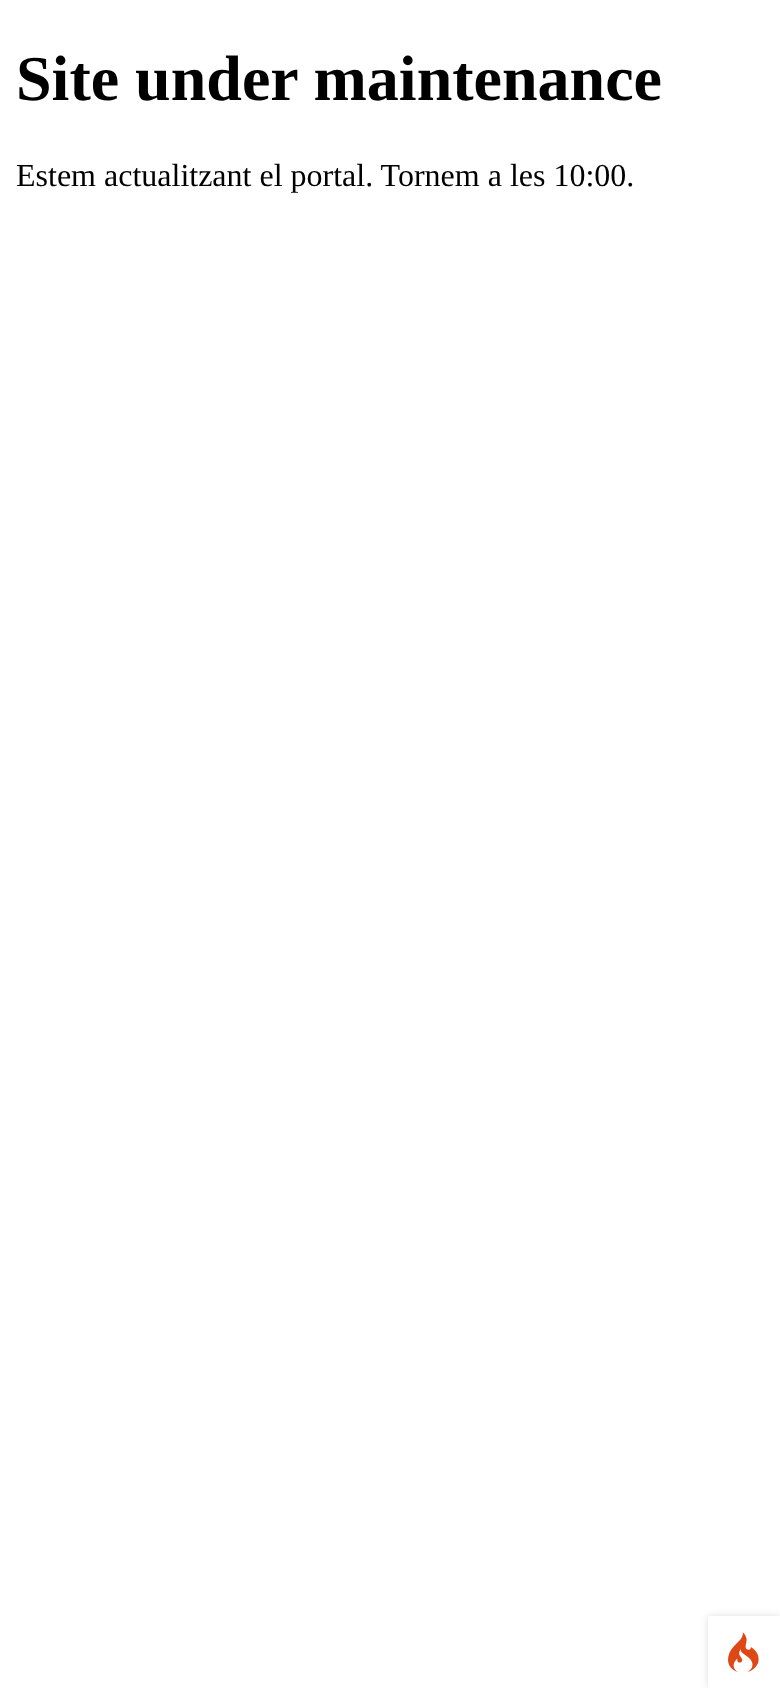
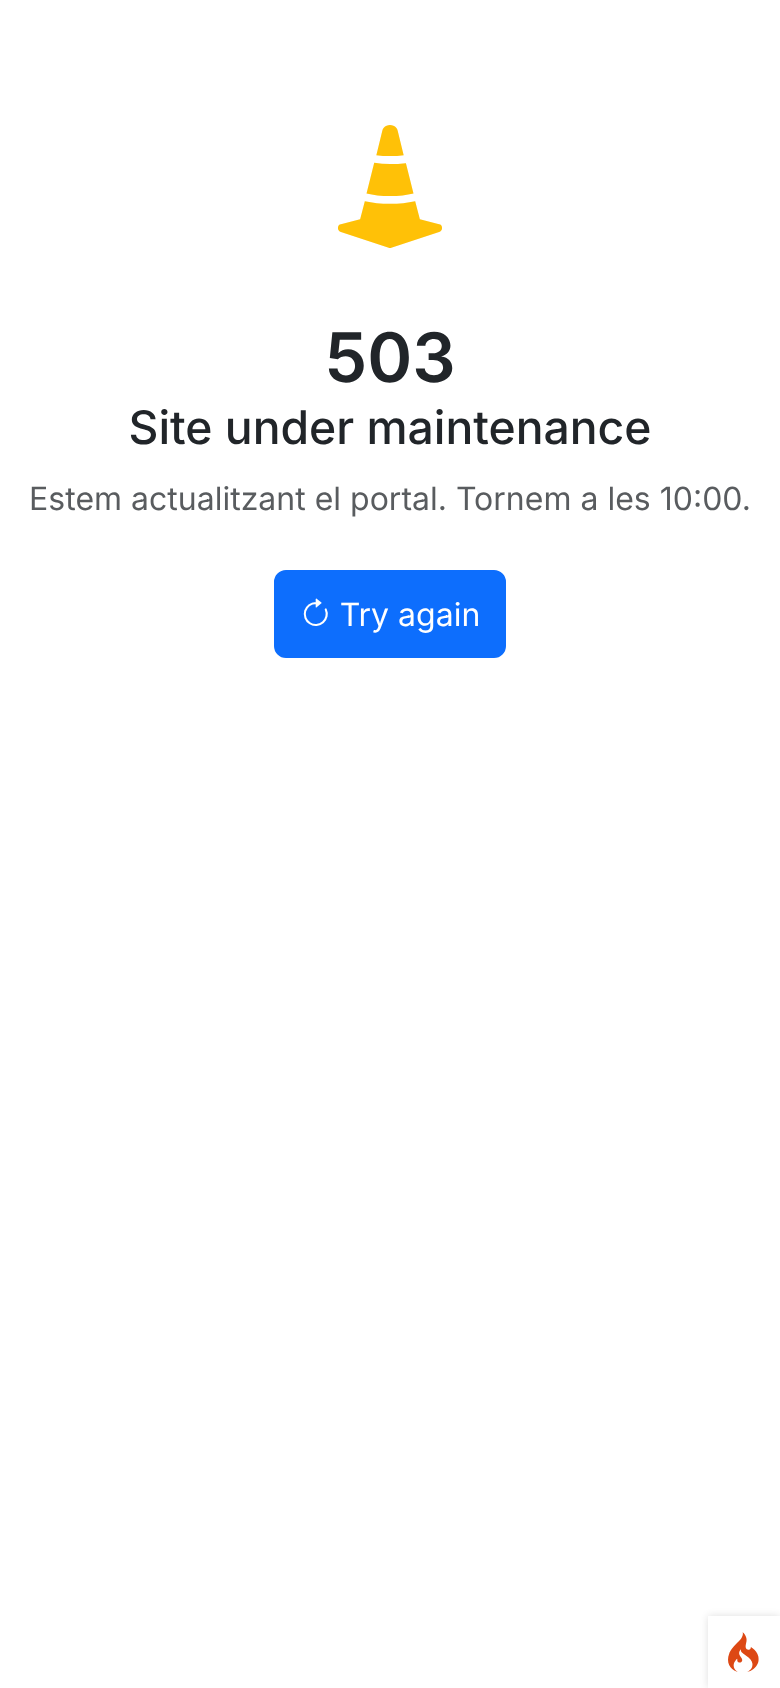
Maintenance page drawn by the theme without the database (D-28-07)
Claude-Session: https://claude.ai/code/session_01BM6RUBSx3Gb4zxDB7wx6QB

diff --git a/themes/default/Assets/css/theme.css b/themes/default/Assets/css/theme.css
@@ -296,6 +296,7 @@
 .demo-progress .progress-bar { width: 0; transition: width 0.3s ease; }
 .empty-state-icon { font-size: 3rem; }
 .error-page-icon { font-size: 4rem; }
+.maintenance-message { max-width: 36rem; }
 .status-dot { font-size: 0.5em; vertical-align: middle; }
 .crud-container .table-responsive-wrapper { overflow-x: auto; }
 .form-layout .form-actions { position: sticky; bottom: 0; background-color: var(--bs-body-bg); z-index: 2; }

diff --git a/modules/Core/Maintenance/MaintenancePage.php b/modules/Core/Maintenance/MaintenancePage.php
@@ -1,0 +1,60 @@
+<?php
+
+declare(strict_types=1);
+
+namespace Modules\Core\Maintenance;
+
+use CodeIgniter\Settings\Settings;
+use Config\Services;
+use Throwable;
+
+/**
+ * The 503 page of maintenance mode, drawn by the theme like the 403/404/500 pages: the standard
+ * view `errors/maintenance` (Core default `modules/Core/Views/errors/maintenance.php`; a theme
+ * overrides it in `themes/<slug>/Views/errors/maintenance.php`, D-28-07).
+ *
+ * The database may be being replaced (a restore), so nothing may read it: before rendering, the
+ * request's settings service is swapped for one without handlers, so every `setting()` answers
+ * the file configuration (`Config\Theme`, `Config\Core`…): the public theme of `Config\Theme`,
+ * its default options and colours, the default site name. If the theme cannot render, a plain
+ * page without styles is returned instead (a broken theme never hides the maintenance notice).
+ */
+final class MaintenancePage
+{
+    /**
+     * @param string $message the administrator's plain-text message (empty = the default text)
+     */
+    public static function render(string $message = ''): string
+    {
+        try {
+            $config           = clone config('Settings');
+            $config->handlers = [];
+            Services::injectMock('settings', new Settings($config));
+            Services::resetSingle('theme');
+
+            $theme = service('theme');
+            $theme->setArea('public');
+
+            return $theme->render('errors/maintenance', [
+                'message' => $message,
+                'title'   => lang('Core.maintenance.title'),
+                'retry'   => current_url(),
+            ], ['saveData' => false]);
+        } catch (Throwable) {
+            return self::plain($message);
+        }
+    }
+
+    /**
+     * Minimal page without theme, styles or scripts.
+     */
+    public static function plain(string $message = ''): string
+    {
+        $title = esc(lang('Core.maintenance.title'));
+        $text  = esc($message !== '' ? $message : lang('Core.maintenance.message'));
+
+        return '<!doctype html><html lang="' . esc(service('request')->getLocale()) . '"><head><meta charset="utf-8">'
+            . '<meta name="viewport" content="width=device-width, initial-scale=1"><meta name="robots" content="noindex">'
+            . '<title>' . $title . '</title></head><body><main><h1>' . $title . '</h1><p>' . $text . '</p></main></body></html>';
+    }
+}

diff --git a/modules/Core/Tests/MaintenanceModeTest.php b/modules/Core/Tests/MaintenanceModeTest.php
@@ -8,10 +8,11 @@ use CodeIgniter\Test\CIUnitTestCase;
 use CodeIgniter\Test\FeatureTestTrait;
 use CodeIgniter\Test\StreamFilterTrait;
 use Modules\Core\Maintenance\MaintenanceMode;
+use Modules\Core\Maintenance\MaintenancePage;
 
 /**
  * Maintenance mode (session 27, used by restores): every request answers 503 with Retry-After
- * and a page that reads no database, except the paths the mode allows; JSON for API clients;
+ * and the theme's maintenance page (D-28-07), except the paths the mode allows; JSON for API clients;
  * `schedule:run` does nothing meanwhile.
  *
  * @internal
@@ -42,7 +43,11 @@ final class MaintenanceModeTest extends CIUnitTestCase
             $this->assertSame('60', $response->response()->getHeaderLine('Retry-After'), $path);
         }
 
-        $this->assertStringContainsString(lang('Core.maintenance.title'), (string) $this->call('GET', '/')->response()->getBody());
+        $page = (string) $this->call('GET', '/')->response()->getBody();
+        $this->assertStringContainsString(lang('Core.maintenance.title'), $page);
+        $this->assertStringContainsString('class="error-page maintenance-page', $page, 'Drawn by the theme, like the other error pages.');
+        $this->assertMatchesRegularExpression('#<link rel="stylesheet" href="[^"]*themes/default/#', $page);
+        $this->assertStringContainsString(lang('Core.maintenance.retry'), $page);
         $this->assertSame(lang('Core.maintenance.title'), json_decode((string) $this->call('GET', 'api/v1/news')->response()->getBody(), true)['error'] ?? null);
 
         $this->assertTrue($mode->allows('progress/backup/0123'));
@@ -52,6 +57,15 @@ final class MaintenanceModeTest extends CIUnitTestCase
         $mode->disable();
         $this->assertFalse($mode->isOn());
         $this->assertNull($mode->state());
+    }
+
+    public function testThePlainFallbackNeedsNothing(): void
+    {
+        $page = MaintenancePage::plain('Back <soon>');
+
+        $this->assertStringContainsString('Back &lt;soon&gt;', $page);
+        $this->assertStringNotContainsString('<link', $page);
+        $this->assertStringContainsString(lang('Core.maintenance.message'), MaintenancePage::plain());
     }
 
     public function testTheSchedulerSkipsWhileItIsOn(): void

diff --git a/modules/Core/Views/errors/maintenance.php b/modules/Core/Views/errors/maintenance.php
@@ -1,24 +1,22 @@
 <?php
 /**
- * Maintenance mode page (503, Modules\Core\Filters\Maintenance). Plain HTML on purpose: while the
- * mode is on the database may be replaced (a restore), so nothing here reads settings, the theme
- * or the database. `$message` is the administrator's plain-text message (MaintenanceMode).
+ * Maintenance page (503, Modules\Core\Filters\Maintenance through MaintenancePage) in the active
+ * theme's blank layout, like the other error pages; a theme overrides it in
+ * `themes/<slug>/Views/errors/maintenance.php`. The database may be being replaced: settings
+ * answer the file configuration only (MaintenancePage), and this view must not read anything
+ * else (no models, no session data).
  *
- * @var string $message
+ * @var string      $message the administrator's plain-text message (empty = the default text)
+ * @var string|null $retry   the URL to try again
  */
 ?>
-<!doctype html>
-<html lang="<?= esc(service('request')->getLocale(), 'attr') ?>">
-<head>
-    <meta charset="utf-8">
-    <meta name="viewport" content="width=device-width, initial-scale=1">
-    <meta name="robots" content="noindex">
-    <title><?= esc(lang('Core.maintenance.title')) ?></title>
-</head>
-<body>
-<main>
-    <h1><?= esc(lang('Core.maintenance.title')) ?></h1>
-    <p><?= esc(($message ?? '') !== '' ? $message : lang('Core.maintenance.message')) ?></p>
+<?= $this->extend(theme_layout('blank')) ?>
+<?= $this->section('content') ?>
+<main class="error-page maintenance-page container py-5 text-center">
+    <i class="bi bi-cone-striped error-page-icon text-warning" aria-hidden="true"></i>
+    <p class="display-4 fw-semibold mt-3 mb-0">503</p>
+    <h1 class="h3"><?= esc(lang('Core.maintenance.title')) ?></h1>
+    <p class="text-body-secondary mx-auto maintenance-message"><?= esc(($message ?? '') !== '' ? $message : lang('Core.maintenance.message')) ?></p>
+    <a href="<?= esc(ui_safe_url($retry ?? base_url('/'))) ?>" class="btn btn-primary mt-2"><i class="bi bi-arrow-clockwise me-1" aria-hidden="true"></i><?= esc(lang('Core.maintenance.retry')) ?></a>
 </main>
-</body>
-</html>
+<?= $this->endSection() ?>

diff --git a/modules/Core/Filters/Maintenance.php b/modules/Core/Filters/Maintenance.php
@@ -10,12 +10,14 @@ use CodeIgniter\HTTP\RequestInterface;
 use CodeIgniter\HTTP\ResponseInterface;
 use CodeIgniter\Shield\Entities\User;
 use Modules\Core\Maintenance\MaintenanceMode;
+use Modules\Core\Maintenance\MaintenancePage;
 use Modules\Core\Permissions\Authorization;
 use Throwable;
 
 /**
  * Global filter (`maintenance`, first of the global filters): while maintenance mode is on,
- * every request answers 503 with `Retry-After` and a plain page that needs no database, except
+ * every request answers 503 with `Retry-After` and the theme's maintenance page drawn without the
+ * database (MaintenancePage; plain HTML if the theme fails), except
  * the paths the mode allows (MaintenanceMode::allows()). JSON requests get a JSON body.
  *
  * When an administrator turned it on by hand (the state's `bypass` flag, D-28-02), a signed-in
@@ -64,7 +66,7 @@ final class Maintenance implements FilterInterface
             return $response->setJSON(['error' => lang('Core.maintenance.title'), 'message' => $state['message'], 'retryAfter' => self::RETRY_AFTER]);
         }
 
-        return $response->setBody(view('Modules\Core\Views\errors\maintenance', ['message' => $state['message']], ['debug' => false]));
+        return $response->setBody(MaintenancePage::render($state['message']));
     }
 
     private static function superadminSignedIn(RequestInterface $request): bool

diff --git a/modules/Settings/Tests/MaintenanceScreenTest.php b/modules/Settings/Tests/MaintenanceScreenTest.php
@@ -90,6 +90,19 @@ final class MaintenanceScreenTest extends SettingsTestCase
         $this->send('GET', '/')->assertStatus(200);
     }
 
+    public function testThePageIsThemedWithoutReadingStoredSettings(): void
+    {
+        service('settings')->set('Core.siteName', 'Name stored in the database');
+        (new MaintenanceMode())->enableByHand('Back soon');
+
+        $page = (string) $this->send('GET', '/')->getBody();
+
+        $this->assertStringContainsString('class="error-page maintenance-page', $page);
+        $this->assertStringContainsString('Back soon', $page);
+        $this->assertStringNotContainsString('Name stored in the database', $page, 'Only the file configuration is read (the database may be being replaced).');
+        $this->assertStringContainsString('<title>' . esc(lang('Core.maintenance.title')), $page);
+    }
+
     public function testASuperadminWithoutASessionCookieIsNotLetThrough(): void
     {
         $this->createUser('root@example.com', 'superadmin');

diff --git a/modules/Core/Language/es/Core.php b/modules/Core/Language/es/Core.php
@@ -230,6 +230,7 @@ return [
     'maintenance' => [
         'title'   => 'Sitio en mantenimiento',
         'message' => 'El sitio se está actualizando o restaurando. Vuelva a intentarlo dentro de unos minutos.',
+        'retry'   => 'Volver a intentarlo',
         'skipped' => 'Omitido: el modo de mantenimiento está activado.',
         'banner'  => 'Modo de mantenimiento activado: los visitantes ven la página de mantenimiento.',
         'manage'  => 'Gestionarlo',

diff --git a/modules/Core/Language/ca/Core.php b/modules/Core/Language/ca/Core.php
@@ -230,6 +230,7 @@ return [
     'maintenance' => [
         'title'   => 'Lloc en manteniment',
         'message' => 'El lloc s\'està actualitzant o restaurant. Torneu-ho a provar d\'aquí a uns minuts.',
+        'retry'   => 'Torna-ho a provar',
         'skipped' => 'Omès: el mode de manteniment està activat.',
         'banner'  => 'Mode de manteniment activat: els visitants veuen la pàgina de manteniment.',
         'manage'  => 'Gestiona-ho',

diff --git a/modules/Core/Language/en/Core.php b/modules/Core/Language/en/Core.php
@@ -230,6 +230,7 @@ return [
     'maintenance' => [
         'title'   => 'Site under maintenance',
         'message' => 'The site is being updated or restored. Please try again in a few minutes.',
+        'retry'   => 'Try again',
         'skipped' => 'Skipped: maintenance mode is on.',
         'banner'  => 'Maintenance mode is on: visitors see the maintenance page.',
         'manage'  => 'Manage it',

diff --git a/docs/decisions.md b/docs/decisions.md
@@ -247,6 +247,7 @@ questions") and from each session's report; they are answered with `deploy/decid
 | D-28-04 | 28 | `app:update`: verify before maintenance, protected paths, local changes, recovery | Accepted (proposal) |
 | D-28-05 | 28 | Versions: the installed version, tags, pre-releases and modules' repositories | Accepted (proposal) |
 | D-28-06 | 28 | `OutboundClient` drops credentials on cross-origin redirects | Accepted (proposal) |
+| D-28-07 | 28 | The maintenance page drawn by the theme without the database | Accepted (proposal) |
 
 ## D-00-01 — Branch names and pushing to `main`
 
@@ -2559,3 +2560,12 @@ questions") and from each session's report; they are answered with `deploy/decid
 - **Alternatives:** A) Never follow redirects for authenticated requests (GitHub asset downloads always redirect).
 - **Status:** Accepted (proposal)
 - **Applied in:** `modules/Core/Http/OutboundClient.php`, `docs/outbound-requests.md`; tests `OutboundClientTest::testCredentialsAreNotSentToAnotherOrigin`, `ReleaseSourceTest::testPrivateRepositoriesUseTheTokenAndTheApiForDownloads`.
+
+## D-28-07 — The maintenance page drawn by the theme without the database
+
+- **Where:** D-27-02 (the 503 page "reads no database": a plain HTML page), specification "Themes" (error pages through the theme); owner's request (2026-11-16): the maintenance page should look like the 404/500 pages and follow the theme.
+- **Problem:** The theme, the site name and the theme options are settings stored in the database, which a restore may be replacing while the page is shown.
+- **Proposal:** The page is the standard view `errors/maintenance` (Core default in the `blank` layout: icon, 503, title, the administrator's message, "Try again"), overridable by a theme in `themes/<slug>/Views/errors/maintenance.php`. `MaintenancePage::render()` swaps the request's settings service for one without handlers before rendering, so every `setting()` answers the file configuration only (`Config\Theme::$public`, default options and colours, default site name) and nothing reads the database; any failure falls back to the plain page. A theme chosen in Settings (stored in the database) is therefore not used for this page: set it in `Config\Theme`/`.env` (`theme.public`) to see it there too.
+- **Alternatives:** A) Read the stored theme when the mode was turned on by hand (the database is intact then), file configuration only during restores and updates (two looks for the same page). B) Copy the active theme's slug into `maintenance.json` when the mode is turned on.
+- **Status:** Accepted (proposal)
+- **Applied in:** `modules/Core/Maintenance/MaintenancePage.php`, `modules/Core/Filters/Maintenance.php`, `modules/Core/Views/errors/maintenance.php`, `themes/default/Assets/css/theme.css`, `docs/themes.md`, `docs/security.md`; tests `MaintenanceModeTest`, `MaintenanceScreenTest::testThePageIsThemedWithoutReadingStoredSettings`.

diff --git a/docs/progress.md b/docs/progress.md
@@ -70,7 +70,7 @@ translation fallback, group audience and publish workflow (`docs/plan.md`).
 
 ## Decisions
 
-- **28:** Updates module (`docs/updates.md`): releases read from GitHub/GitLab through `OutboundClient` (`ReleaseSource`), newest semver tag (D-28-05), result in `writable/updates/status.json` (D-28-01), widget `updates.version`, notification `NewVersion` once per version, page `backend/updates` with safe release notes, daily task, `updates:check`; `app:update` verifies the archive (SHA-256 + minisign Ed25519, `SignatureVerifier`) or the git tag **before** maintenance mode, then backup, code (protected paths, replaced files kept), composer, `modules:sync`, caches (D-28-03, D-28-04). Maintenance mode by hand in Settings › Actions and `app:maintenance` with a message and a superadmin bypass (D-28-02). D-28-01 and D-28-02 open (decide); D-28-03 … D-28-06 accepted.
+- **28:** Updates module (`docs/updates.md`): releases read from GitHub/GitLab through `OutboundClient` (`ReleaseSource`), newest semver tag (D-28-05), result in `writable/updates/status.json` (D-28-01), widget `updates.version`, notification `NewVersion` once per version, page `backend/updates` with safe release notes, daily task, `updates:check`; `app:update` verifies the archive (SHA-256 + minisign Ed25519, `SignatureVerifier`) or the git tag **before** maintenance mode, then backup, code (protected paths, replaced files kept), composer, `modules:sync`, caches (D-28-03, D-28-04). Maintenance mode by hand in Settings › Actions and `app:maintenance` with a message and a superadmin bypass (D-28-02). D-28-01 and D-28-02 open (decide); D-28-03 … D-28-07 accepted (D-28-07, owner's request: the 503 page is the theme's `errors/maintenance` view drawn with the file configuration only).
 
 
 - **26:** Core API endpoints as kpapy resources with the web's visibility rules: News (`POST news/{id}/read`, `GET news/notices`), Events (`events`, `occurrences`, `calendars`; `Services/EventsApi.php`), Core notifications (`notifications`, `unread`, `read`, `read-all`), public `public/news` and `public/events` (GET only, no resolver, per IP, D-26-02). New permissions `news-api.read`, `core-notifications.read`, `events-api.list|show` (133; D-26-01 decided as built, Decisions 26). Read markers not logged (D-26-03). `ApiAuditor` in `permissions:check`; OpenAPI copy `writable/api/openapi.json` on `modules:sync` (D-26-04); access policies and providers in the events API (D-26-05); `make:module --crud=<table> --api` (D-26-06, D-19-03 applied).

diff --git a/deploy-status/28-updates/README.md b/deploy-status/28-updates/README.md
@@ -68,6 +68,9 @@ Branch: `ccr-a5d307ea-vyzp92` · Pull request: [SIENSIS/kpskeletor#36](https://g
   in `writable/updates/previous/<version>/`; local changes of archive installs from
   `writable/updates/files.json` (the first archive update can only warn); git: `merge --ff-only`.
 - D-28-05 (accepted): installed version = `Version::CORE`; highest semver tag; pre-releases off.
+- D-28-07 (accepted, owner's request): the maintenance page is the theme's `errors/maintenance`
+  view (overridable by a theme) drawn with the file configuration only, no database; plain HTML
+  if the theme fails.
 - D-28-06 (accepted): credentials dropped on cross-origin redirects; the archive download uses a
   larger size limit and timeout.
 - Backup: new backup origin `update` (column fits, labels in ca/es/en).
@@ -181,11 +184,15 @@ configured here: updates would be refused), last check, "Check now" and the rele
 shows since when, the reason and the message, and turns it off.*
 
 ![503 page](screenshots/06-maintenance-page-guest.png)
-*06 — What a visitor (or an administrator) gets meanwhile: the 503 page with the message (plain
-HTML that reads no database, unchanged from session 27).*
+*06 — What a visitor (or an administrator) gets meanwhile: the 503 page with the message, drawn
+by the theme like the 404/500 pages without reading the database (D-28-07; guests see English
+until session 31).*
 
 ![503 page, phone](screenshots/07-maintenance-page-phone.png)
 *07 — The 503 page at phone width.*
+
+![503 page, dark](screenshots/09-maintenance-page-dark.png)
+*09 — The 503 page in dark mode.*
 
 ![Maintenance on, phone, dark](screenshots/08-maintenance-on-phone-dark.png)
 *08 — The banner and the back office at phone width in dark mode.*
